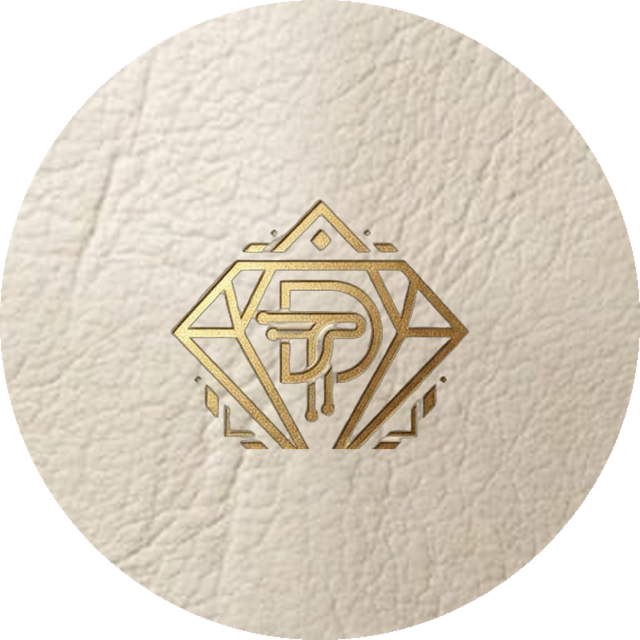
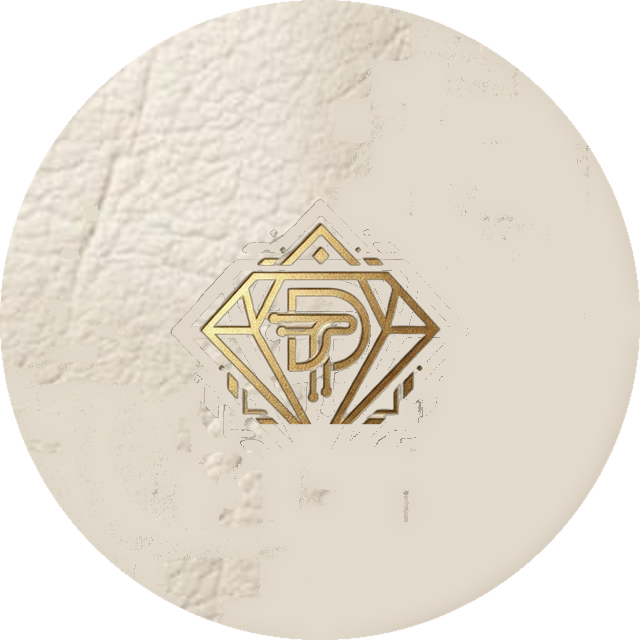
Give circular DT seal more padding so diamond tips stay visible

diff --git a/src/components/AboutIntro.tsx b/src/components/AboutIntro.tsx
@@ -25,7 +25,7 @@ export function AboutIntro() {
             <div className="absolute inset-0 rounded-full border border-[#D4AF37]/50 p-[3px]">
               <div className="relative h-full w-full overflow-hidden rounded-full bg-[#F3EEE4]">
                 <Image
-                  src="/brand/dt-emblem-circle.png?v=5"
+                  src="/brand/dt-emblem-circle.png?v=6"
                   alt="David Tubul — סמל המותג"
                   width={640}
                   height={640}
